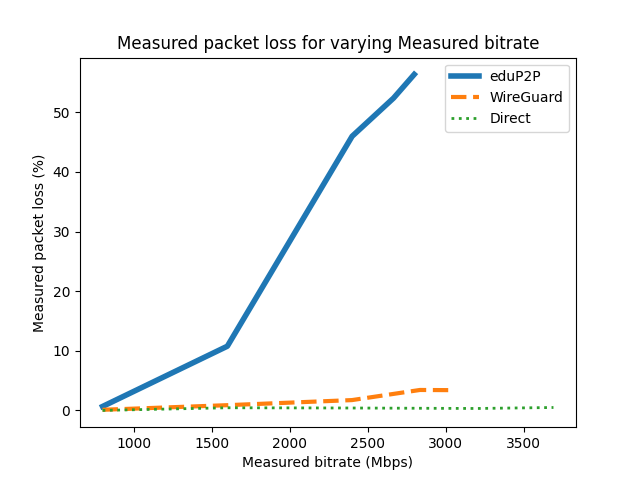
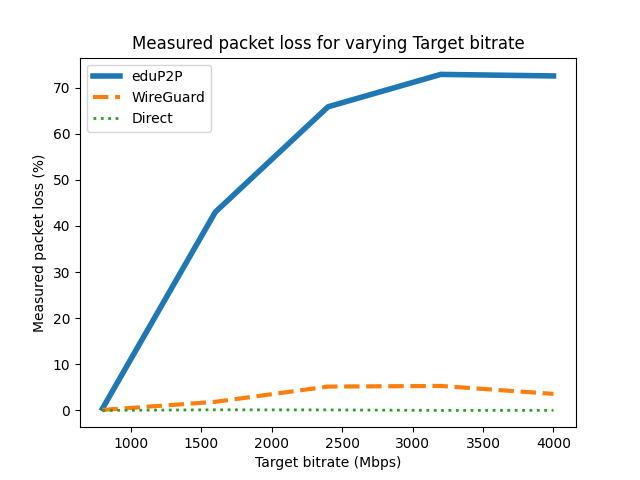
Document new performance test -r and modified -b flag, and rewrite + remeasure peerformance test results accordingly

diff --git a/test_suite/README.md b/test_suite/README.md
@@ -455,12 +455,10 @@ configuring the following parameters:
       [\[8\]](#ref-man_netem)).
 
 - **Performance test baseline**: with this optional parameter, a
-  ‘baseline’ is added to the performance test results, created by
-  repeating the performance tests for:
-
-  1.  two peers that use WireGuard;
-  2.  two peers that use their physical IP addresses in the simulated
-      network setup.
+  ‘baseline’ is added to the performance test results. This baseline is
+  created by repeating the performance tests for two peers that use
+  WireGuard, and/or two peers that use their physical IP addresses in
+  the simulated network setup.
 
   With this baseline, it is easier to investigate whether any
   performance deficiencies in eduP2P are truly the result of a problem
@@ -474,6 +472,12 @@ configuring the following parameters:
   amount of values assigned to the independent variable. If the baseline
   parameter is used, the duration is additionally multiplied by 3.
 
+- **Performance test repetition**: the result of the performance tests
+  may be affected by external factors such as other processes running on
+  the same machine. To mitigate these undesirable external influences,
+  this parameter allows the performance tests to be repeated multiple
+  times in order to improve the reliability of their results.
+
 To run performance tests manually, [system_tests.sh](system_tests.sh)
 can be used with the `-f` option to specify a file containing system
 tests, which may use the above parameters to also execute a performance
@@ -486,7 +490,7 @@ The following command runs tests from a file named
 
 Suppose `performance_test.txt` contains the following line:
 
-    run_system_test -k bitrate -v 100,200 -d 5 TS_PASS_DIRECT router1-router2 : :
+    run_system_test -k bitrate -v 100,200 -d 5 -b wireguard -r 3 TS_PASS_DIRECT router1-router2 : :
 
 Then, running the system tests with the `-f performance_test.txt` option
 will execute a performance test with the following parameters:
@@ -494,6 +498,9 @@ will execute a performance test with the following parameters:
 - the independent variable to be tested is bitrate;
 - the values it should take are 100 and 200 Mbps;
 - the duration of the test for each value is 5 seconds.
+- the performance test is executed for two peers using WireGuard,
+  besides the standard execution for two peers using eduP2P.
+- the performance test is executed 3 times.
 
 The other parameters in `performance_test.txt` are not relevant to the
 performance test itself, but are necessary to run the system test in the
@@ -1151,7 +1158,7 @@ reproducibility.
 
 Command used:
 
-    run_system_test -k bitrate -v 800,1600,2400,3200,4000 -d 3 -b TS_PASS_DIRECT router1-router2 : wg0:wg0
+    run_system_test -k bitrate -v 800,1600,2400,3200,4000 -d 3 -b both -r 5 TS_PASS_DIRECT router1-router2 : wg0:wg0
 
 With this command, we compare the performance of eduP2P, WireGuard and a
 direct connection between two peers in the test suite’s network setup.
@@ -1162,8 +1169,8 @@ limit, as seen in the graph below:
 ![](./images/performance_tests/ext_wg_x_bitrate_y_bitrate.png)
 
 With the direct connection, the maximum bitrate that can be reached on
-my machine is approximately 3600 Mbps, whereas eduP2P and WireGuard both
-end at a bitrate of approximately 2800 Mbps.
+my machine is approximately 3400 Mbps, whereas eduP2P and WireGuard both
+end at a bitrate of approximately 2700 Mbps.
 
 As the measured bitrate increases, it becomes clear that there are large
 differences between the packet loss the three connections suffer, as
@@ -1172,21 +1179,16 @@ seen in the following graph:
 ![](./images/performance_tests/ext_wg_x_bitrate_y_packet_loss.png)
 
 The direct connection does not suffer any packet loss, whereas
-WireGuard’s packet loss slowly climbs up to approximately 3%, and the
-packet loss of eduP2P quickly increases to end at over 50%.
+WireGuard’s packet reaches a maximum of approximately 5%, and the packet
+loss of eduP2P quickly increases to end at over 70%.
 
+The root cause of eduP2P’s packet loss has yet to be determined.
 Although the final amount of packet loss in eduP2P seems very alarming,
 it must be noted that the maximum bitrate used in this performance test
 is very high, and when eduP2P would be used in the real world it is
 unlikely that the network bandwidth limits would allow for such a high
 bitrate. However, the packet loss of eduP2P is also quite sizeable even
 for lower bitrates, which would be a problem in the real world.
-
-The reason that eduP2P suffers so much packet loss probably has to do
-with the fact that it uses Go channels internally to pass packets
-between its isolated components. For such high bitrates, these channels
-may become full, and consequently packets sent to these channels are
-dropped.
 
 It must also be noted that although the direct connection and WireGuard
 do not suffer much packet loss on my machine, this is not the case on
@@ -1209,7 +1211,7 @@ differ on other machines.
 
 Command used:
 
-    run_system_test -k bitrate -v 800,1600,2400,3200,4000 -d 3 -b TS_PASS_DIRECT router1-router2 : :
+    run_system_test -k bitrate -v 800,1600,2400,3200,4000 -d 3 -b both -r 5 TS_PASS_DIRECT router1-router2 : :
 
 This command repeats the performance test of the previous section, with
 the only difference being that now both peers use userspace WireGuard
@@ -1230,7 +1232,7 @@ further, however:
 
 Command used:
 
-    run_system_test -k delay -v 0,1,2,3 -d 3 -b TS_PASS_DIRECT router1-router2 : :
+    run_system_test -k delay -v 0,1,2,3 -d 3 -b both TS_PASS_DIRECT router1-router2 : :
 
 ![](./images/performance_tests/x_ow_delay_y_http_latency.png)
 
